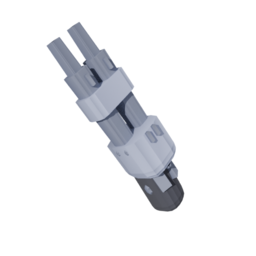
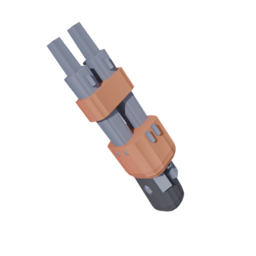
Rifle: recoloured within Kenney's own palette atlas (copper-wood body, gold trim, grey barrels) so it sits with the wood-and-steel KayKit set instead of reading flat grey; the builder's new recolour option moves faces between atlas swatches

Changed region(s): [[0.4062, 0.4375, 0.6875, 0.7188], [0.2812, 0.25, 0.5312, 0.5]]

diff --git a/app/game3d/tools/weapons/build_weapons.py b/app/game3d/tools/weapons/build_weapons.py
@@ -196,6 +196,31 @@ def to_contract(ob, w):
     return s
 
 
+def recolour(ob, w):
+    """Move faces from one palette swatch to another on the same atlas (Kenney's
+    colormap is a grid of flat swatches, 16 across and 4 down in glTF UV space,
+    v = 0 at the top). `recolour`: [{"from": [col, row], "to": [col, row]}]."""
+    swaps = {tuple(r["from"]): tuple(r["to"]) for r in w.get("recolour", [])}
+    if not swaps:
+        return
+    uv = ob.data.uv_layers.active.data
+    moved = 0
+    for poly in ob.data.polygons:
+        us = [uv[i].uv for i in poly.loop_indices]
+        cu = sum(p.x for p in us) / len(us)
+        cv = 1.0 - sum(p.y for p in us) / len(us)          # Blender's v is flipped
+        key = (int(cu * 16), int(cv * 4))
+        if key not in swaps:
+            continue
+        to = swaps[key]
+        du, dv = (to[0] - key[0]) / 16.0, (to[1] - key[1]) / 4.0
+        for p in us:
+            p.x += du
+            p.y -= dv
+        moved += 1
+    print(f"recolour {w['slug']}: {moved} faces")
+
+
 def decimated_copy(ob, ratio, name):
     c = ob.copy()
     c.data = ob.data.copy()
@@ -325,6 +350,7 @@ def main():
         else:
             ob = import_src(os.path.join(SRC, w["src"]))
         s = to_contract(ob, w)
+        recolour(ob, w)
         d = os.path.join(OUT, "packs", slug)
         os.makedirs(d, exist_ok=True)
         tris = {}

diff --git a/docs/game3d/WEAPONS.md b/docs/game3d/WEAPONS.md
@@ -28,7 +28,7 @@ Commando, Blade, Killua and P-Mon are out of scope and have no entry: they are n
 Each weapon GLB:
 - origin at the grip (where the hand closes);
 - +Y (glTF) along the blade, haft or barrel, to the tip; +Z towards the cutting edge, the head of an axe or hammer, the top of a gun, the face of a shield;
-- real-world metres (length along +Y): sword 0.95, greatsword 1.4, axe 0.8, warhammer 1.05, staff 1.6, dagger 0.45, crossbow 0.8, rifle 0.8, shield 0.6 across (the rifle's cross-section is slimmed to 60 % with `girth` in weapons.json: Kenney's blaster is a chunky toy at its own proportions);
+- real-world metres (length along +Y): sword 0.95, greatsword 1.4, axe 0.8, warhammer 1.05, staff 1.6, dagger 0.45, crossbow 0.8, rifle 0.8, shield 0.6 across (the rifle's cross-section is slimmed to 60 % with `girth` in weapons.json, since Kenney's blaster is a chunky toy at its own proportions, and its pale grey body is moved to the atlas's copper-wood and gold swatches with `recolour`, so it matches the KayKit wood-and-steel set);
 - scene root is an empty named `grip` at the origin; under it the mesh and an empty named `tip`;
 - one texture per weapon, embedded (KayKit and Kenney palette atlases), LOD0/1/2 (100/60/30 % of the triangles, texture 1024/512/256), USDZ per LOD, a 512 px thumbnail;
 - `pack.json` carries `stats.kind` (the backend's kinds), `sockets.grip` [0,0,0] and `sockets.tip`.
@@ -155,5 +155,5 @@ xvfb-run -a -s "-screen 0 720x1280x24" godot --path app/game3d --rendering-drive
 
 - No finger bones in the cast's rigs: the hand cannot close; the handle passes through the hand mesh where the fist is. Close-ups show it from three angles (cq 234 evidence).
 - Hoof is static, so his staff does not move except with his whole body.
-- The Kenney repeater is a chunky toy blaster; it reads as a rifle at fight distance, less so in a close-up.
+- The Kenney repeater is a slimmed, recoloured toy blaster; it reads as a rifle at fight and card distance, less so in a close-up.
 - USDZ files are exported (Blender's USD exporter, Z-up stage) but not tried on iOS.

diff --git a/docs/game3d/LICENSES.md b/docs/game3d/LICENSES.md
@@ -19,7 +19,7 @@ Every downloaded asset used by the 3D game, with its source and licence. Only CC
 
 Notes:
 - kenney.nl answers 403 to scripted downloads from this machine, so the Kenney model came from Kenney's own GitHub starter kit, which ships the same Blaster Kit models.
-- The Repeater Rifle is the Kenney model with its cross-section slimmed to 60 % (`girth` in weapons.json), so the chunky toy blaster reads as a rifle; CC0 allows changes.
+- The Repeater Rifle is the Kenney model with its cross-section slimmed to 60 % (`girth` in weapons.json), so the chunky toy blaster reads as a rifle, and recoloured within its own palette atlas (`recolour` in weapons.json moves the pale grey body faces to the atlas's copper-wood swatch and the white trim to its gold swatch; no new texture), so it sits with the KayKit wood-and-steel set; CC0 allows changes.
 - Crediting Kay Lousberg and Kenney is not required by CC0; they are named here as thanks.
 
 ## Characters
